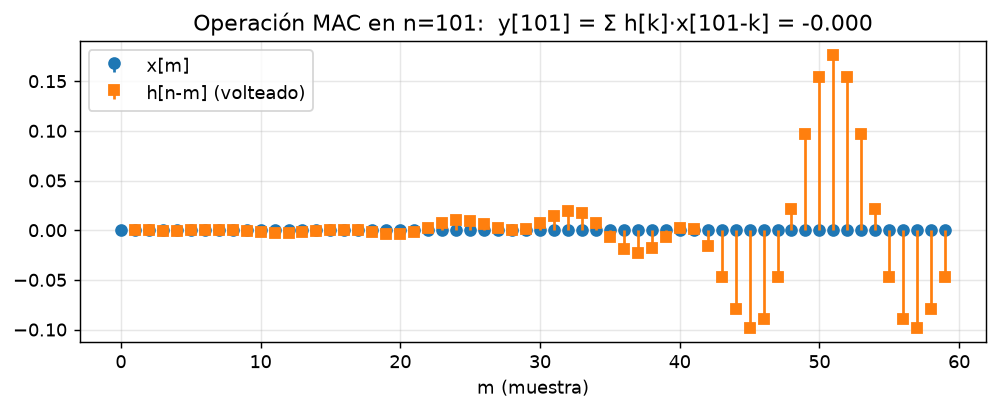
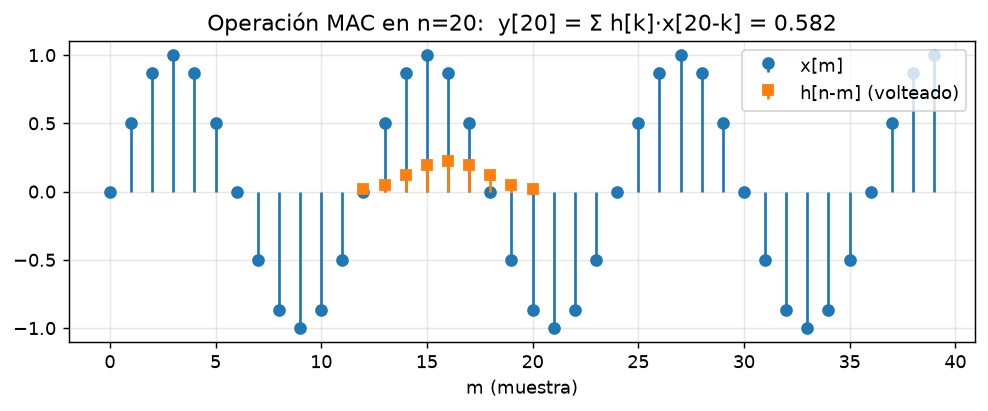
docs(informe): sección 2 (FIR y convolución)
- Sección 2: por qué un pasa-banda µ/β; diseño windowed-sinc (sinc ideal +
  Hamming + normalización, fase lineal con num_taps impar); convolución y MAC
  (convolve_mac/mac_terms/convolve/apply_filter, sin lfilter); respuesta en
  frecuencia (DTFT explícita); causalidad y retardo de grupo (modos
  full/same/valid, offline vs online); efecto sobre la señal; y cómo se ve en
  el Laboratorio. Con las fórmulas exactas del código.
- Mejora la figura 02-mac (señal de juguete + kernel corto, escalas comparables).

diff --git a/backend/scripts/make_report_figures.py b/backend/scripts/make_report_figures.py
@@ -152,8 +152,13 @@ def main() -> None:
     ci = ch.index("C3") if "C3" in ch else 0
     _save(plot_filter_effect(X[0, ci], Xf[0, ci], fs), "02-filter-effect.png")
 
-    # MAC sobre una señal de juguete + el propio h (didáctico)
-    _save(plot_mac_operation(X[0, ci, :60], filt.h, len(filt.h)), "02-mac.png")
+    # MAC didáctico: señal de juguete (seno) + kernel corto de suavizado, escalas
+    # comparables y solape completo en n=20 (la señal cruda es minúscula frente a h).
+    t_toy = np.arange(40)
+    x_toy = np.sin(2 * np.pi * t_toy / 12)
+    w9 = np.hamming(9)
+    h_toy = w9 / w9.sum()
+    _save(plot_mac_operation(x_toy, h_toy, 20), "02-mac.png")
 
     # --- CSP (sección 3) -----------------------------------------------------
     csp = CSP(n_components=cfg["csp"]["n_components"], shrinkage=cfg["csp"].get("shrinkage", 0.0)).fit(Xf, y)

diff --git a/docs/informe/02-fir-convolucion.md b/docs/informe/02-fir-convolucion.md
@@ -1,0 +1,165 @@
+# 2 · FIR y convolución — la teoría LTI explícita
+
+> El corazón académico del proyecto. Aquí se ve, con las fórmulas exactas del código, cómo
+> diseñamos a mano un filtro FIR pasa-banda y cómo se aplica por **convolución discreta**.
+> Código: `backend/src/bci/dsp/fir_filters.py`, `convolution.py`, `frequency_response.py`.
+> Página: **Laboratorio** (`frontend/src/pages/SignalLab.tsx`).
+
+---
+
+## 2.1 Por qué un pasa-banda µ/β (8–30 Hz)
+
+La imaginación motora se refleja en los **ritmos sensoriomotores**: las bandas **µ (8–12 Hz)** y
+**β (12–30 Hz)**. Al imaginar un movimiento, la potencia de estos ritmos **cae** sobre la corteza
+motora contraria (fenómeno **ERD**, *event-related desynchronization*). Todo lo demás —deriva lenta
+de la línea base (sudor, movimiento), ruido muscular y de red en alta frecuencia— es estorbo.
+
+Por eso la **primera etapa** del pipeline es un **filtro pasa-banda FIR** que deja pasar 8–30 Hz y
+atenúa el resto. Es un sistema **LTI**: queda descrito por su respuesta al impulso `h[n]`, y filtrar
+es **convolucionar** la señal con `h[n]`.
+
+---
+
+## 2.2 Diseño del filtro: *windowed-sinc*
+
+`design_bandpass_fir(low_hz, high_hz, fs, num_taps, window)` construye `h[n]` en tres pasos
+(método de **ventaneo**):
+
+1. **Filtro ideal.** Un pasa-banda ideal es la diferencia de dos pasa-bajos ideales; su respuesta
+   al impulso es una diferencia de *sinc* (centrada en `m = n − (N−1)/2` para que salga simétrica):
+
+   ```
+   h_ideal[m] = 2·f2·sinc(2·f2·m) − 2·f1·sinc(2·f1·m)
+   ```
+
+   con las frecuencias normalizadas a la de muestreo: `f1 = low_hz/fs`, `f2 = high_hz/fs`. El *sinc*
+   ideal es **infinito y no causal**.
+
+2. **Truncar** a `N = num_taps` coeficientes (esto introduce rizado: el fenómeno de **Gibbs**).
+
+3. **Ventanear**: multiplicar por una ventana suave que lleva los extremos a cero y reduce los
+   lóbulos laterales (a cambio de una transición algo más ancha). Por defecto **Hamming**:
+
+   ```
+   w[n] = 0.54 − 0.46·cos(2πn/(N−1))
+   ```
+
+Finalmente se **normaliza** para que la ganancia sea ≈ 1 en el centro de la banda. Las ventanas
+(`hamming`, `hann`, `blackman`, `rectangular`) están implementadas a mano para que la fórmula sea
+explícita.
+
+> **Decisión técnica: `num_taps` impar ⇒ fase lineal.** Como `h[n]` queda **simétrico**, el filtro
+> tiene **fase lineal**: retarda todas las frecuencias **lo mismo**, sin distorsionar la forma de la
+> onda. El retardo es constante e igual a `(N−1)/2` muestras (ver 2.5). Se exige `num_taps` impar
+> (tipo I) y `0 < low < high < fs/2` (**Nyquist**).
+
+El resultado es `h[n]` (la **respuesta al impulso** = los coeficientes / *taps*):
+
+![Respuesta al impulso h[n]](figures/02-fir-impulse.png)
+
+Su forma es un *sinc* enventanado, simétrico respecto al centro — justo la condición de fase lineal.
+
+---
+
+## 2.3 La convolución (y la operación MAC)
+
+Una vez tenemos `h[n]`, filtrar es **convolucionar**:
+
+```
+y[n] = (x * h)[n] = Σ_k  h[k] · x[n − k]
+```
+
+Cada muestra de salida es una suma de productos `h[k]·x[n−k]`: la operación **MAC**
+(*multiplicar-acumular*). `backend/src/bci/dsp/convolution.py` la implementa **a mano** de tres
+formas equivalentes (verificadas contra NumPy en los tests):
+
+| Función | Qué es | Para qué |
+|---|---|---|
+| `convolve_mac` | doble bucle literal `y[n]=Σ h[k]·x[n−k]` | didáctica ("como en el libro") |
+| `mac_terms` | los términos `(h[k], x[n−k], producto)` de **una** salida `y[n]` | exponer la operación MAC paso a paso |
+| `convolve` | vectorizada por **superposición** (`y[k:k+N] += h[k]·x`) | producción (rápida) |
+
+`apply_filter(X, h, mode)` aplica la convolución sobre el **último eje** (el tiempo) de un tensor
+`(n_trials, n_canales, n_muestras)`, que es como se filtra un dataset entero.
+
+![La operación MAC](figures/02-mac.png)
+
+> **Decisión central: no usamos `scipy.signal.lfilter`.** `lfilter` resuelve una **ecuación en
+> diferencias** (puede ser IIR, recursiva). Nosotros queremos la **convolución FIR explícita**,
+> que es justo lo que el proyecto debe demostrar. (Además, un FIR de fase lineal no es realizable
+> como IIR sin perder esa propiedad.)
+
+---
+
+## 2.4 Respuesta en frecuencia: qué hace el filtro
+
+Para entender el filtro miramos su **respuesta en frecuencia**, la DTFT de `h[n]`
+(`frequency_response.py`):
+
+```
+H(e^jω) = Σ_n  h[n] · e^{−jωn}        con  ω = 2π f / fs
+```
+
+`|H(e^jω)|` dice cuánto se amplifica/atenúa cada frecuencia. Para el pasa-banda µ/β esperamos
+`|H| ≈ 1` entre 8–30 Hz y `≈ 0` fuera:
+
+![Respuesta en frecuencia |H(e^jω)|](figures/02-fir-frequency.png)
+
+> **Detalle didáctico.** Se calcula por **suma directa** de la DTFT (no solo `np.fft`) para que la
+> teoría sea explícita; los tests verifican que coincide con la FFT salvo error numérico. La idea
+> LTI clave: **convolución en el tiempo ⇔ multiplicación en frecuencia**.
+
+---
+
+## 2.5 Causalidad y retardo de grupo
+
+La fase lineal implica un **retardo de grupo constante** de `(N−1)/2` muestras (≈ 0,2 s con 101
+*taps* a 250 Hz). `convolve`/`apply_filter` admiten tres **modos** (`_trim`):
+
+| Modo | Longitud | Uso |
+|---|---|---|
+| `full` | `len_x + len_h − 1` | todas las superposiciones |
+| `same` | `len_x` (centrado) | **offline**: compensa el retardo (usa muestras *futuras*) |
+| `valid` | `len_x − len_h + 1` | solo donde `h` solapa por completo |
+
+> **Offline vs online.** En el mundo **offline** usamos `mode='same'`: como tenemos el trial entero,
+> centramos la salida y el retardo queda compensado (la señal filtrada se alinea con la cruda). En
+> **vivo no se puede** mirar el futuro: el `CausalFIR` mantiene estado entre bloques y asume el
+> retardo real (`mode='valid'`). Eso se trata en la [sección 7](07-streaming-en-vivo.md).
+
+---
+
+## 2.6 El efecto sobre la señal real
+
+Aplicado a un trial real (2a, canal C3), el FIR limpia la deriva lenta y el ruido alto, dejando una
+oscilación µ/β mucho más clara (en tiempo y en frecuencia):
+
+![Cruda vs filtrada (tiempo y frecuencia)](figures/02-filter-effect.png)
+
+---
+
+## 2.7 Cómo se representa en la página
+
+La página **Laboratorio** (mundo *online*, recibe la misma señal en vivo que las demás secciones)
+es la materialización interactiva de esta sección:
+
+- **Respuesta al impulso `h[n]`**: *stem plot* de los coeficientes (cambia con los *taps*).
+- **Respuesta en frecuencia `|H(e^jω)|`**: con la banda µ/β sombreada en verde.
+- **Cruda vs filtrada**: la señal en vivo, **filtrada en el cliente** con convolución **causal**
+  (`frontend/src/lib/dsp.ts`, `convolveCausal`) usando la banda y los *taps* que elijas — eso es lo
+  que hace interactivo el laboratorio.
+- **Controles**: cortes inferior/superior, nº de *taps* y un indicador del **retardo de grupo**
+  (`(N−1)/2` muestras ≈ ms), que sube al subir los *taps*.
+
+> **El dilema del ingeniero (para la defensa).** Más *taps* ⇒ flancos casi verticales en `|H|`
+> (filtro más selectivo) **pero** más retardo; menos *taps* ⇒ filtro suave que deja pasar más ruido
+> **pero** casi sin retardo. Es el compromiso precisión espectral ↔ velocidad en tiempo real, y se
+> ve moviendo el deslizador.
+
+El backend expone el filtro vía `GET /api/filter?fs=&low=&high=&taps=` → devuelve `h`, el eje de
+frecuencias, `|H|` en dB y el retardo de grupo (lo usa también la comparación con EEGNet).
+
+---
+
+**Siguiente:** [3 · CSP](03-csp.md) — el filtro **espacial** que combina los canales (`Z = W·X`) y
+la log-varianza como característica.